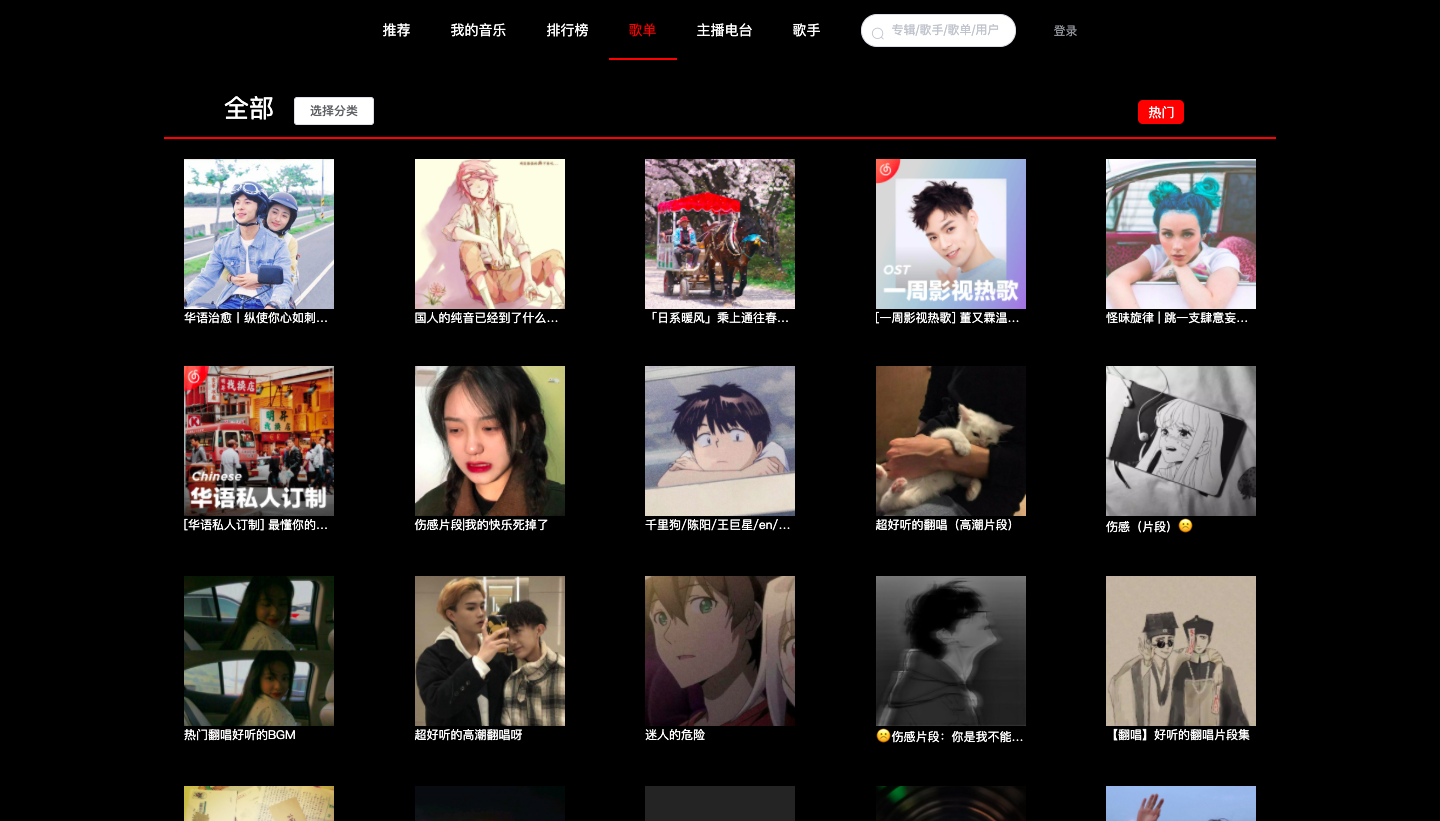
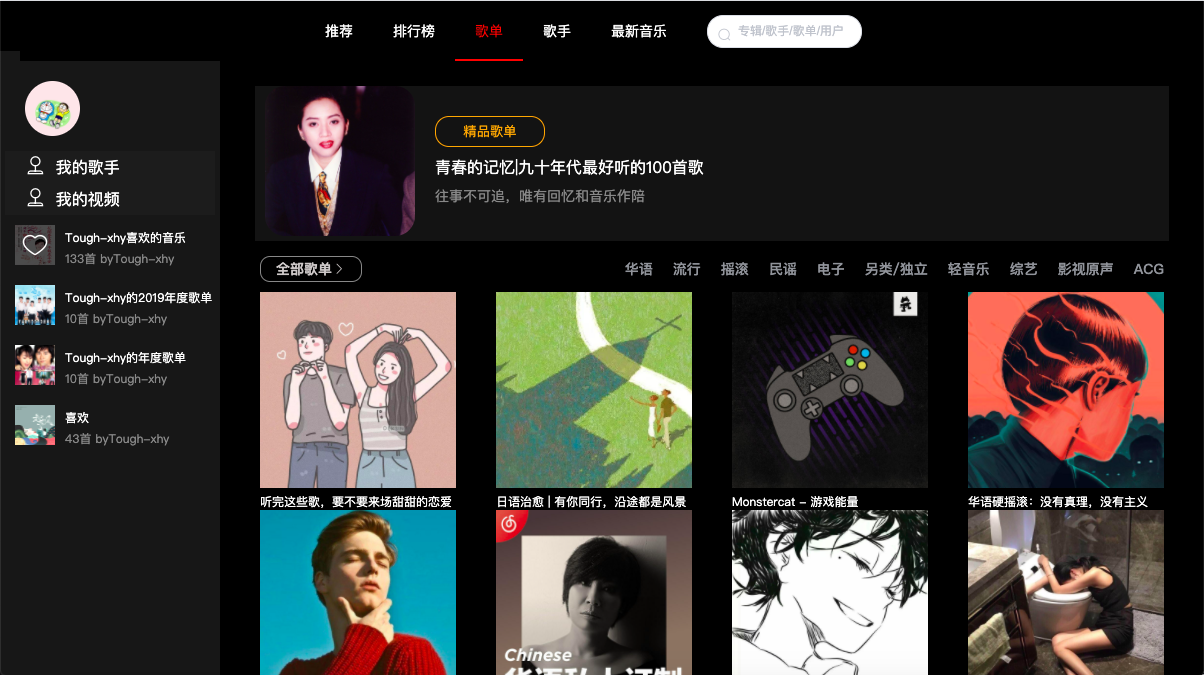
修改页面

diff --git a/src/views/songMenu/songMenu.vue b/src/views/songMenu/songMenu.vue
@@ -1,18 +1,35 @@
 <template>
   <div>
     <!--      选择栏-->
-    <div class="header" v-if="showhigh" @click="goHighQuality">
+    <div class="header" v-if="Object.keys(highqualityList).length!==0">
       <el-row>
-        <img :src="highqualityList[0].coverImgUrl" alt="">
+        <img :src="highqualityList[0].coverImgUrl" alt="" @click="goHighQuality">
         <div>
-          <button>精品歌单</button>
+          <button @click="goHighQuality">精品歌单</button>
           <span class="name">{{highqualityList[0].name}}</span>
           <span class="writer">{{highqualityList[0].copywriter}}</span>
         </div>
       </el-row>
     </div>
     <el-row>
-      <el-button type="danger" plain size="mini" @click="categoriesVisible=true">{{cateName}}<i class="el-icon-arrow-right"></i></el-button>
+      <el-popover
+        placement="bottom-start"
+        width="800"
+        v-model="popovervisible">
+        <button class="cate" @click="highCate">全部歌单</button>
+        <div v-for="(item, index) in categories" :key="index">
+          <div  class="category">
+            <i :class="icon[index]"></i>
+            {{item}}
+          </div>
+          <div class="category-item">
+          <span class="category-item-item" v-for="(items, indexs) in reduction[index]" :key="indexs" @click="cate(items.name)">{{items.name}}
+            <el-divider v-if="indexs!==reduction[index].length-1" direction="vertical"></el-divider>
+          </span>
+          </div>
+        </div>
+        <el-button class="button" slot="reference">{{cateName}}<i class="el-icon-arrow-right"></i></el-button>
+      </el-popover>
       <div class="link">
         <template v-for="(item, index) in playlist">
           <el-link type="info" :key="index" style="margin: 0 10px" @click="cate(item.name)">
@@ -36,21 +53,6 @@
         </song-outline>
       </template>
     </div>
-    <!--    分类对话框-->
-    <el-dialog center :visible.sync="categoriesVisible" width="50%" :modal="false" class="dialog">
-      <el-button type="danger" plain size="mini" @click="highCate">全部</el-button>
-      <div v-for="(item, index) in categories" :key="index">
-        <div  class="category">
-          <i :class="icon[index]"></i>
-          {{item}}
-        </div>
-        <div class="category-item">
-          <span class="category-item-item" v-for="(items, index) in reduction[index]" :key="index" @click="cate(items.name)">{{items.name}}
-            <el-divider direction="vertical"></el-divider>
-          </span>
-        </div>
-      </div>
-    </el-dialog>
     <!--    分页-->
     <el-pagination
       background
@@ -92,7 +94,6 @@ export default {
       categories: {},
       sub: {},
       // 分类对话框是否显示
-      categoriesVisible: false,
       // 歌单
       songMenu: {},
       icon: [
@@ -108,7 +109,7 @@ export default {
       total: 0,
       playlist: [],
       highqualityList: [],
-      showhigh: true
+      popovervisible: false
     }
   },
   methods: {
@@ -131,19 +132,17 @@ export default {
         this.currentPage = 1
         this.total = data.total
         this.songMenu = data.playlists
-        this.cateName = '全部'
-        this.categoriesVisible = false
+        this.cateName = '全部歌单'
+        this.popovervisible = false
         this.getHighQuality('全部')
       })
     },
     getHighQuality (cat) {
       this.$http.get(`/top/playlist/highquality?cat=${cat}&&limit=1`).then(data => {
-        console.log(data.playlists)
         if (Object.keys(data.playlists).length !== 0) {
-          this.showhigh = true
           this.highqualityList = data.playlists
         } else {
-          this.showhigh = false
+          this.highqualityList = []
         }
       })
     },
@@ -159,7 +158,7 @@ export default {
       this.$http.get(info).then(data => {
         this.total = data.total
         this.songMenu = data.playlists
-        this.categoriesVisible = false
+        this.popovervisible = false
         this.cateName = cat
       })
       this.getHighQuality(cat)
@@ -212,8 +211,6 @@ export default {
 <style lang="stylus" scoped>
   .el-row
     margin 10px
-    .el-button
-      margin-left 10px
   .category
     font-size 18px
     i
@@ -226,31 +223,17 @@ export default {
     cursor pointer
     position relative
     margin 3px 0
-    font-size 12px
+    font-size 14px
     line-height 18px
     left 80px
     top -25px
   .category-item-item:hover
-    font-size 15px
-    text-decoration underline
-  .dialog
-    /*color white*/
-    margin-top 10px
-    >>>.el-dialog__header
-      background-color black
-      border 1px solid red
-      border-bottom none
-      padding 5px
-    >>>.el-dialog__body
-      background-color black
-      border 1px solid red
-      border-top none
-      color white
-      padding 25px 25px 0 25px
+    color red
   .el-pagination
     display flex
     justify-content center
     position relative
+    margin-top 10px
   .link
     display inline-block
     float right
@@ -284,4 +267,18 @@ export default {
       background-color transparent
       border-radius 14px
       padding 5px
+  .button
+    margin-left 10px
+    border-radius 10px
+    background-color black
+    color #cdc9c9
+    padding 5px 15px
+    border 1px solid #888888
+  .cate
+    margin 10px
+    border-radius 10px
+    background-color black
+    color #cdc9c9
+    padding 2px 15px
+    border 1px solid #888888
 </style>

diff --git a/src/views/latest/latest.vue b/src/views/latest/latest.vue
@@ -5,7 +5,7 @@
         <template v-for="item in cate">
           <span :class="{active:activeName===item.name}" :key="item.id" @click="getSongs(item.id, item.name)">{{item.name}}</span>
         </template>
-        <el-button size="mini" type="danger" icon="el-icon-video-play" plain>播放全部</el-button>
+        <el-button class="cate" icon="el-icon-video-play" plain>播放全部</el-button>
       </el-row>
       <template v-for="(item, index) in musics" class="box">
         <div :key="item.id" class="music" :class="{odd:index%2 ===0}">
@@ -63,10 +63,10 @@ export default {
   },
   methods: {
     getSongs (type, name) {
-      console.log(name)
       this.activeName = name
       this.$http.get(`/top/song?type=${type}`).then(data => {
         this.musics = data.data
+        console.log(data.data)
       })
     },
     goSinger (id) {
@@ -146,4 +146,11 @@ export default {
     color white !important
   .odd
     background-color #0a0a0a
+  .cate
+    margin 10px
+    border-radius 10px
+    background-color #db5858
+    color white
+    padding 5px 15px
+    border none
 </style>

diff --git a/src/views/index.vue b/src/views/index.vue
@@ -299,7 +299,6 @@ export default {
   .el-menu.el-menu--horizontal
     border-bottom none
   .button-group
-    background-color black
     text-align center
     .el-button
       /*background-color #252525*/
@@ -372,6 +371,21 @@ export default {
       background-color #eeeeee
   .el-aside
     background-color #171717
+    position fixed
+    left 0
+    top 50px
+    height 100%
+    padding 20px 5px
+  .el-main
+    overscroll-behavior contain
+    margin-left 220px
+    margin-top 50px
+  .el-header
+    z-index 10
+    position fixed
+    width 100%
+    left 0
+    top 0
   .aside
     cursor pointer
     margin 10px 10px 0 10px
@@ -406,6 +420,7 @@ export default {
     border-radius 50%
     margin 10px 20px
     +span
+      cursor pointer
       position relative
       left 20px
       top -20px

diff --git a/src/views/singer/singer.vue b/src/views/singer/singer.vue
@@ -172,7 +172,7 @@ export default {
     padding 0
     .main
       margin  0 20px
-      color #5f5d5d
+      color #828080
       div
         margin 4px 10px
         font-size 14px
@@ -191,4 +191,6 @@ export default {
         .spell-item,.last
           margin 0 10px
           padding 2px 20px
+  .el-divider
+    background-color #2a2929
 </style>

diff --git a/src/views/album/album.vue b/src/views/album/album.vue
@@ -207,9 +207,6 @@ export default {
 </script>
 
 <style lang="stylus" scoped>
-  .el-container
-    width 74%
-    margin auto
   img
     width 150px
     height 150px
@@ -312,7 +309,4 @@ export default {
         -webkit-line-clamp 2
         overflow hidden
         text-indent 2em
-  .el-main
-    margin-top 40px
-    overflow hidden
 </style>

diff --git a/src/views/singer/singerInformation/singerInformation.vue b/src/views/singer/singerInformation/singerInformation.vue
@@ -251,6 +251,7 @@ export default {
         height auto
   .header
     font-size 20px
+    margin-left 20px
     +div
       margin 10px 30px
       font-size 14px
@@ -266,5 +267,5 @@ export default {
     width 80px
     position absolute
     top 260px
-    left 580px
+    left 740px
 </style>

diff --git a/src/css/common.css b/src/css/common.css
@@ -5,6 +5,8 @@ body{
   height: 100%;
   background-color: black;
   color: white;
+  min-height: 660px;
+  min-width: 1200px;
 }
 .line{
   border: 1px solid #ff0000

diff --git a/README.md b/README.md
@@ -72,6 +72,31 @@
 - 其实sync是一个语法糖，是什么语法糖呢？
 - 在子组件中不能修改父组件中的值，要想修改父组件中的值，必须向父组件发射一个方法this.$emit('方法名',‘修改的的值);，然后父组件接收这个方法@方法名=‘处理数据操作’
 - 如果使用.sync,就不用上面操作了，在子组件中修改的值，父组件也会同步变化
+- ### sessionStorage
+存储的数据只有在同一个会话中的页面才能访问并且当会话结束后数据也随之销毁.只能存储字符串类型,如果存储的数据类型不是字符串类型，存储时，会自动调用toString方法,存入一个对象数据，会变成 [object Object]字符串
+数据存储不正确，获取的sessionStorage数据也就不对了
+- 1.存储时：JSON.stringify()方法转换成字符串，再存储到sessionStorage中
+- 2.使用时：通过JSON.parse()方法将字符串转换成JSON格式即可
+- ### 使单行文字超过一定长度显示...
+- 1.规定元素的宽度  
+       width: 200px;
+- 2.定义超过元素宽度的文字隐藏  
+       overflow: hidden
+- 3.规定当文本溢出时包含元素时发生的事情------ellipsis(显示省略符号来代表被修剪的文本)  
+       text-overflow: ellipsis
+- 4.规定元素不换行  
+       white-space: nowrap  
+- ### 多行文字显示...
+- 1.规定元素的宽度  
+        width: 200px;
+ - 2.定义超过元素宽度的文字隐藏  
+        overflow: hidden
+ - 3.设置盒子样式  
+      display: -webkit-box    
+ - 4.设置盒子参考方式  
+       -webkit-box-orient: vertical
+ - 5.设置超出多少行显示省略号    
+        -webkit-line-clamp 2
 ## 项目截图
 ![在这里插入图片描述](https://img-blog.csdnimg.cn/20200516191250866.png?x-oss-process=image/watermark,type_ZmFuZ3poZW5naGVpdGk,shadow_10,text_aHR0cHM6Ly9ibG9nLmNzZG4ubmV0L3hoeXh4aHducw==,size_16,color_FFFFFF,t_70)
 ![在这里插入图片描述](https://img-blog.csdnimg.cn/20200516191250802.png?x-oss-process=image/watermark,type_ZmFuZ3poZW5naGVpdGk,shadow_10,text_aHR0cHM6Ly9ibG9nLmNzZG4ubmV0L3hoeXh4aHducw==,size_16,color_FFFFFF,t_70)
